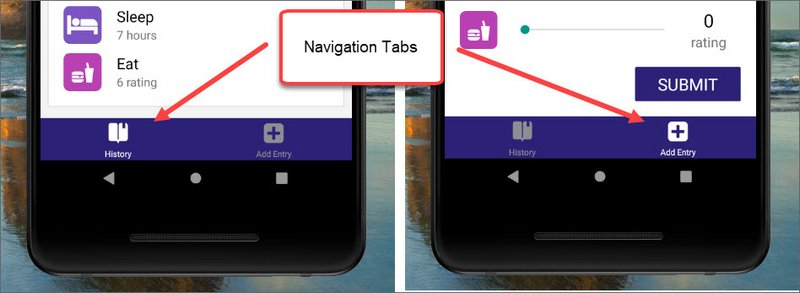
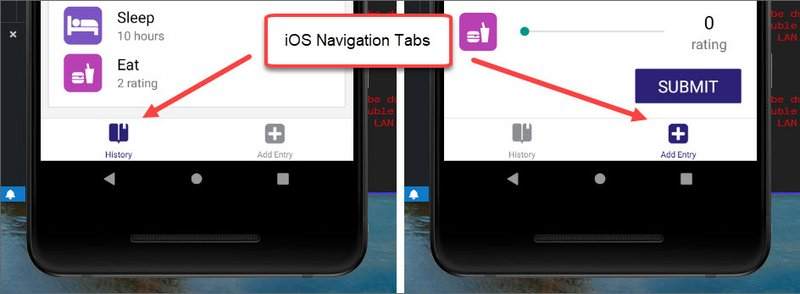
docs: Add 4.6 StatusBar & 4.7 Summary

diff --git a/docs/course-notes/react-native.md b/docs/course-notes/react-native.md
@@ -1844,7 +1844,7 @@ Let's break this down. First, the Main Axis is now running horizontally since we
 
 Up until this point, we've only had one flex container or parent element. Don't get it twisted though; if you create more nested flex containers, the exact same logic above is going to be true for those child elements (flex items) but instead of being relative to the whole view (as in our example), they'll position themselves according to the their parent component. Your entire UI will be built upon nesting flex containers.
 
-At this point, you're essentially a red belt in React Native styling TaeKwonDo. There are a few other flexbox features we need to look at, though.
+At this point, you're essentially a red belt in React Native styling Karate. There are a few other flexbox features we need to look at, though.
 
 You'll very quickly come to a realization that there are no percent-based styling in React Native. Though I agree it makes things a bit more difficult, everything you can do with percent-based styling you can do with flexbox. Remember the `flex: 1` declaration we used in all the examples above? That's the property that's going to allow us to do it. Interestingly enough there's no exact comparison for this feature in flexbox on the web, but it is similar to `flex-grow` if you know what that does.
 
@@ -2836,7 +2836,7 @@ In the rare case where flexbox just won’t work for your specific needs, you ca
 ### 3.10 CSS in JS Libraries
 Styling in React is going through a renaissance period right now. There are many different styling libraries popping up and each has different tradeoffs.
 
-Two of the most popular are[ Glamorous](https://github.com/robinpowered/glamorous-native) and [Styled Components](https://github.com/styled-components/styled-components).
+Two of the most popular are[Glamorous](https://github.com/robinpowered/glamorous-native) and [Styled Components](https://github.com/styled-components/styled-components).
 
 The whole idea of both of these libraries is that styling is a primary concern of the component and because of that, should be coupled with the component itself.
 
@@ -3281,6 +3281,7 @@ This is located at '/navigation/TabNavigator.js'.
 // TabNavigator.js
 import React from 'react';
 import { Platform } from 'react-native';
+import { Icon } from 'expo';
 import {
   createBottomTabNavigator,
   createMaterialTopTabNavigator
@@ -3289,65 +3290,140 @@ import History from '../components/History';
 import AddEntry from '../components/AddEntry';
 import { purple, white } from '../utils/colors';
 
-// export default
-const android = createMaterialTopTabNavigator(
-  {
-    History: History,
-    AddEntry: AddEntry
-  },
-  {
+const isIOS = Platform.OS === 'ios' ? true : false;
+
+const routeConfigs = {
+  History: {
+    screen: History,
     navigationOptions: {
-      header: null
-    },
-    defaultNavigationOptions: {
-      bounces: true
-    },
-    tabBarOptions: {
-      activeTintColor: Platform.OS === 'ios' ? purple : white,
-      style: {
-        height: 70,
-        backgroundColor: Platform.OS === 'ios' ? white : purple,
-        shadowColor: 'rgba(0,0,0, 0.24)',
-        shadowOffset: {
-          width: 0,
-          height: 3
-        },
-        shadowRadius: 6,
-        shadowOpacity: 1
-      },
-      tabStyle: {
-        marginTop: 5
-      },
-      showIcon: true
+      tabBarLabel: 'History',
+      tabBarIcon: ({ tintColor }) => (
+        <Icon.Ionicons
+          name={isIOS ? 'ios-bookmarks' : 'md-bookmarks'}
+          size={30}
+          color={tintColor}
+        />
+      )
+    }
+  },
+  AddEntry: {
+    screen: AddEntry,
+    navigationOptions: {
+      tabBarLabel: 'Add Entry',
+      tabBarIcon: ({ tintColor }) => (
+        <Icon.FontAwesome name="plus-square" size={30} color={tintColor} />
+      )
     }
   }
-);
+};
 
-const ios = createBottomTabNavigator(
-  {
-    History: History,
-    AddEntry: AddEntry
+const tabNavigatorConfig = {
+  navigationOptions: {
+    header: null
   },
-  {
-    navigationOptions: {
-      header: null
+  defaultNavigationOptions: {
+    bounces: true
+  },
+  tabBarOptions: {
+    activeTintColor: isIOS ? purple : white,
+    style: {
+      height: isIOS ? 56 : 70,
+      backgroundColor: isIOS ? white : purple,
+      shadowColor: 'rgba(0,0,0, 0.24)',
+      shadowOffset: {
+        width: 0,
+        height: 3
+      },
+      shadowRadius: 6,
+      shadowOpacity: 1
     },
-    tabBarOptions: {
-      activeTintColor: Platform.OS === 'ios' ? purple : white,
-      style: {
-        height: 56,
-        backgroundColor: Platform.OS === 'ios' ? white : purple,
-        shadowColor: 'rgba(0,0,0, 0.24)',
-        shadowOffset: {
-          width: 0,
-          height: 3
-        },
-        shadowRadius: 6,
-        shadowOpacity: 1
-      }
-    }
+    labelStyle: {
+      fontSize: isIOS ? 11 : 12
+    },
+    tabStyle: {
+      marginTop: isIOS ? 0 : 5
+    },
+    showIcon: true
   }
-);
+};
 
-export default (Platform.OS === 'ios' ? ios : android);
+const Tabs = isIOS
+  ? createBottomTabNavigator(routeConfigs, tabNavigatorConfig)
+  : createMaterialTopTabNavigator(routeConfigs, tabNavigatorConfig);
+
+export default Tabs;
 ```
+
+The last step was to remove the static `navigationOptions` methods from both AddEntry and History components.
+
+#### 4.5.7 Quiz Question
+What is true about the Tab Navigator?
+
+- [ ] `createBottomTabNavigator` is provided by React Native.
+- [x] The return value of `createBottomTabNavigator` is just a component that can be rendered like any other.
+- [ ] Tab Navigator renders tabs that look identical in both Android and iOS.
+- [x] Tab Navigator is fully customizable
+
+### 4.6 StatusBar
+
+[![rn55](../assets/images/rn55-small.jpg)](../assets/images/rn55.jpg)<br>
+<span class="center bold">Updated StatusBar</span>
+
+Recall that so far, our application has been using arbitrary `padding` to account for the status bar at the top of the device's screen. Let's go ahead and change that! React Native actually provides a simple `StatusBar` component to customize how the status bar appears in an application.
+
+Before we take a look at how to implement `StatusBar`, be sure to import it from `react-native`:
+
+```bash
+import { StatusBar } from 'react-native';
+```
+
+#### 4.6.1 StatusBar code
+Next we update StatusBar in '/App.js'.
+
+```jsx
+// App.js
+import React from 'react';
+import PropTypes from 'prop-types';
+import { StyleSheet, View, StatusBar } from 'react-native';
+import { Constants } from 'expo';
+import { purple } from './utils/colors';
+
+...
+{% raw %}
+function UdacityStatusBar({ backgroundColor, ...props }) {
+  return (
+    <View style={{ backgroundColor, height: Constants.statusBarHeight }}>
+      <StatusBar translucent backgroundColor={backgroundColor} {...props} />
+    </View>
+  );
+}{% endraw %}
+UdacityStatusBar.propTypes = {
+  backgroundColor: PropTypes.string.isRequired
+};
+
+export default class App extends React.Component {
+  render() {
+    return (
+      <Provider store={store}>
+        <View style={styles.container}>
+          <UdacityStatusBar backgroundColor={purple} barStyle="light-content" />
+          <AppNavigator />
+        </View>
+      </Provider>
+    );
+  }
+}
+
+const styles = StyleSheet.create({
+  container: {
+    flex: 1
+  }
+});
+```
+
+### 4.7 Summary
+React Navigator v1 offers a TabNavigator (and React Navigator v2 offers us createBottomTabNavigator) API that allows for navigation between different screens via individual tabs. Each tab is dedicated to rendering a specific component.
+
+This section also detailed React Native's StatusBar component. StatusBar is relatively straightforward to use and is fully customizable -- we typically just set properties to change it!
+
+In the next section, we'll take a look at React Navigator's Stack Navigator, which allows users to add and remove screens from a stack.
